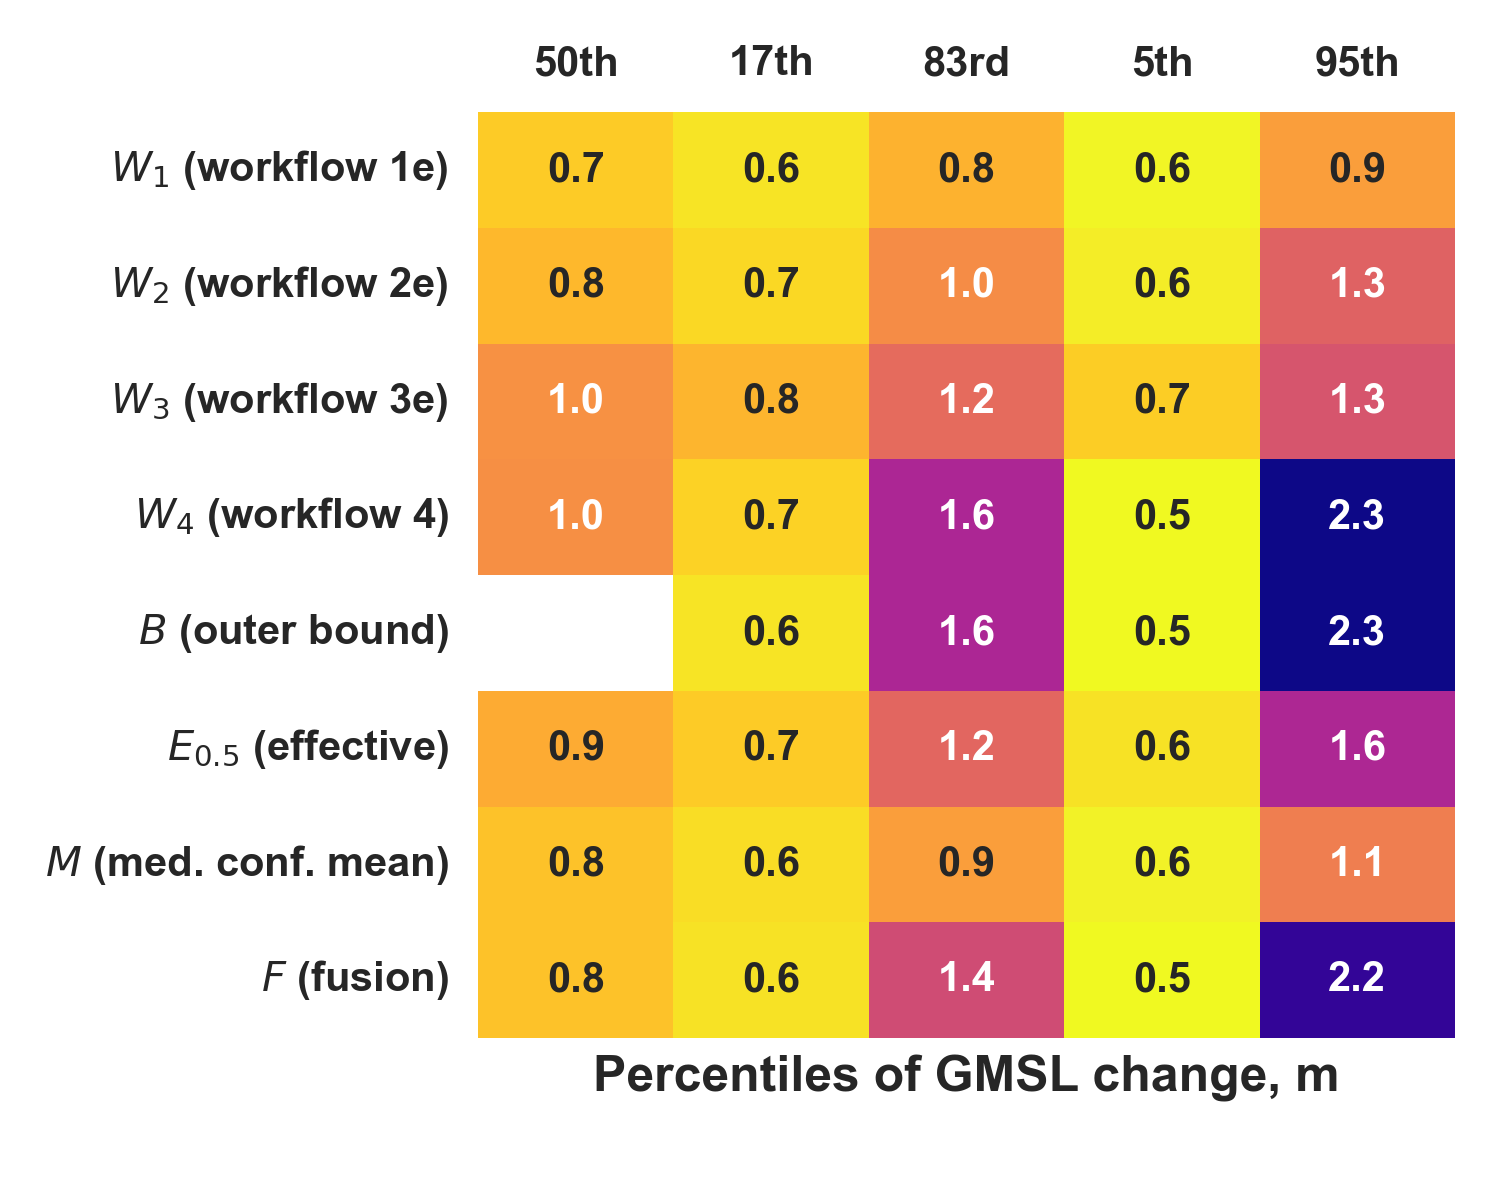
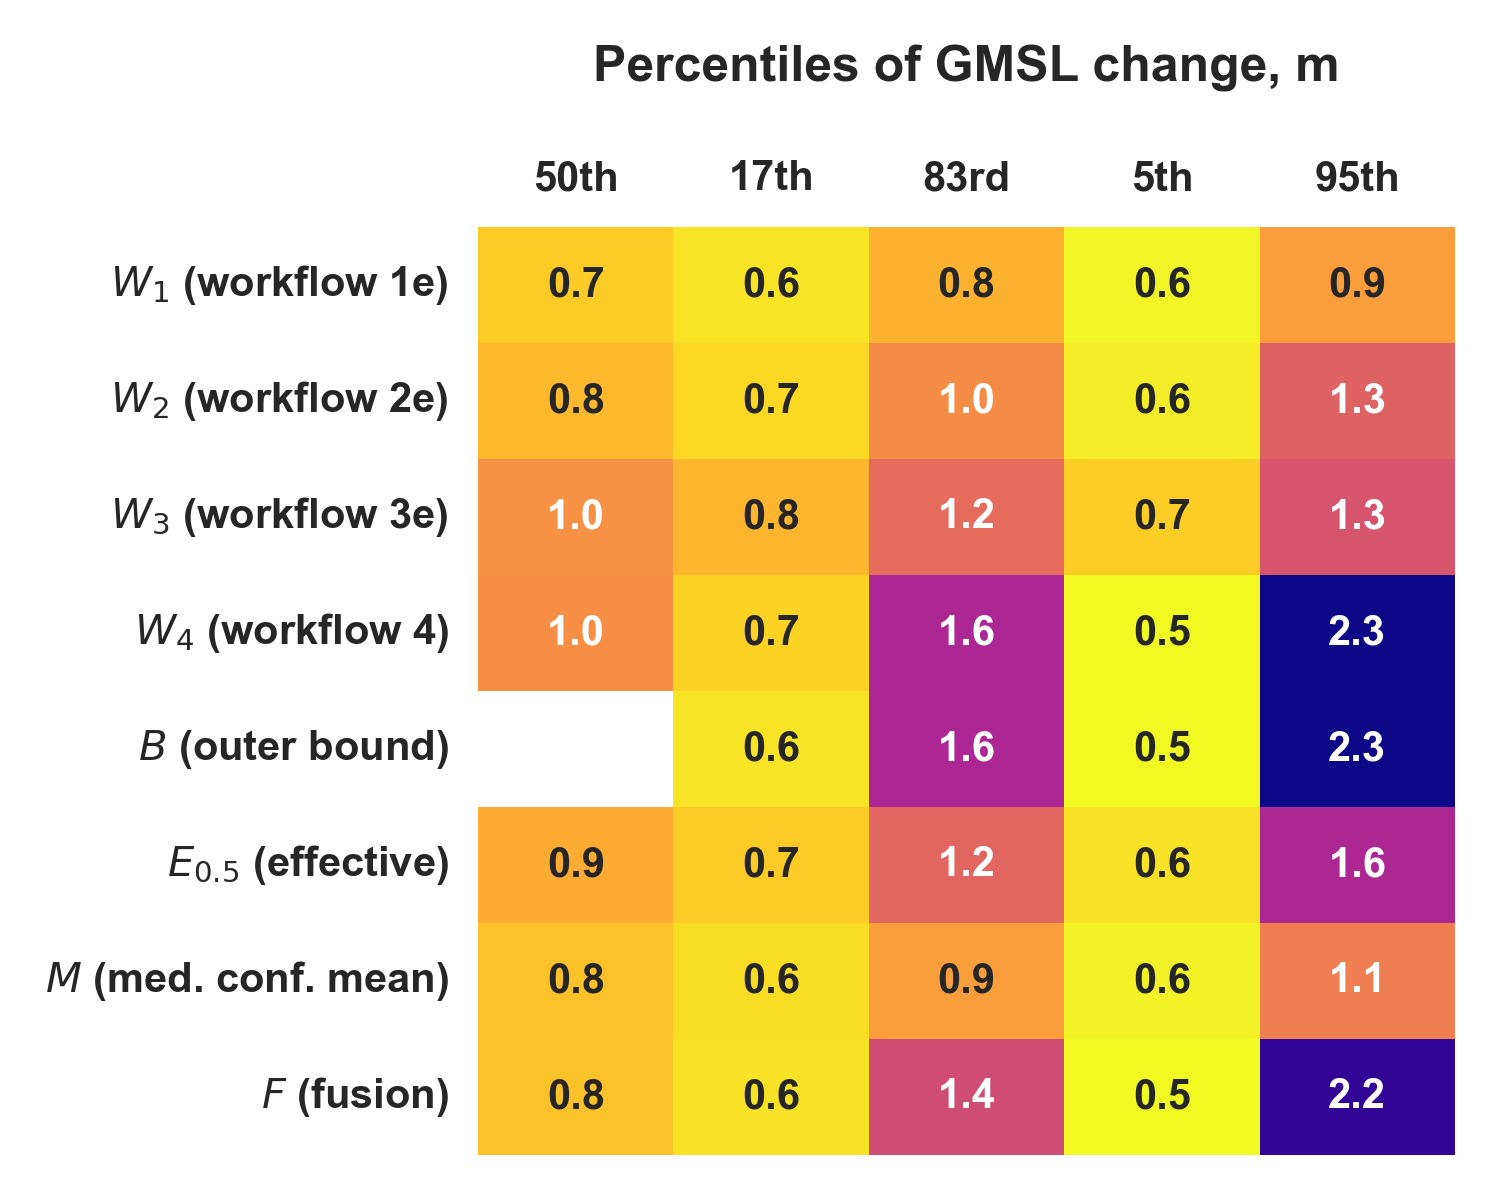
d23a.py plot_percentiles_heatmap(): set title (not x-axis label).

diff --git a/d23a.py b/d23a.py
@@ -628,7 +628,7 @@ def plot_percentiles_heatmap(percentiles=('50th', '17th', '83rd', '5th', '95th')
     ax.tick_params(top=False, bottom=False, left=False, right=False, labeltop=True, labelbottom=False, rotation=0)
     for label in ax.get_xticklabels() + ax.get_yticklabels():
         label.set_fontweight('bold')
-    ax.set_xlabel(f'Percentiles of {SL_LABEL_DICT[(rate, bool(gauge))]}\n')
+    ax.set_title(f'Percentiles of {SL_LABEL_DICT[(rate, bool(gauge))]}\n')
     if gauge is not None:
         ax.text(-0.25, 1.1, f'Location:\n{gauge.replace("_", " ").title()}',
                 ha='center', va='bottom', transform=ax.transAxes)
